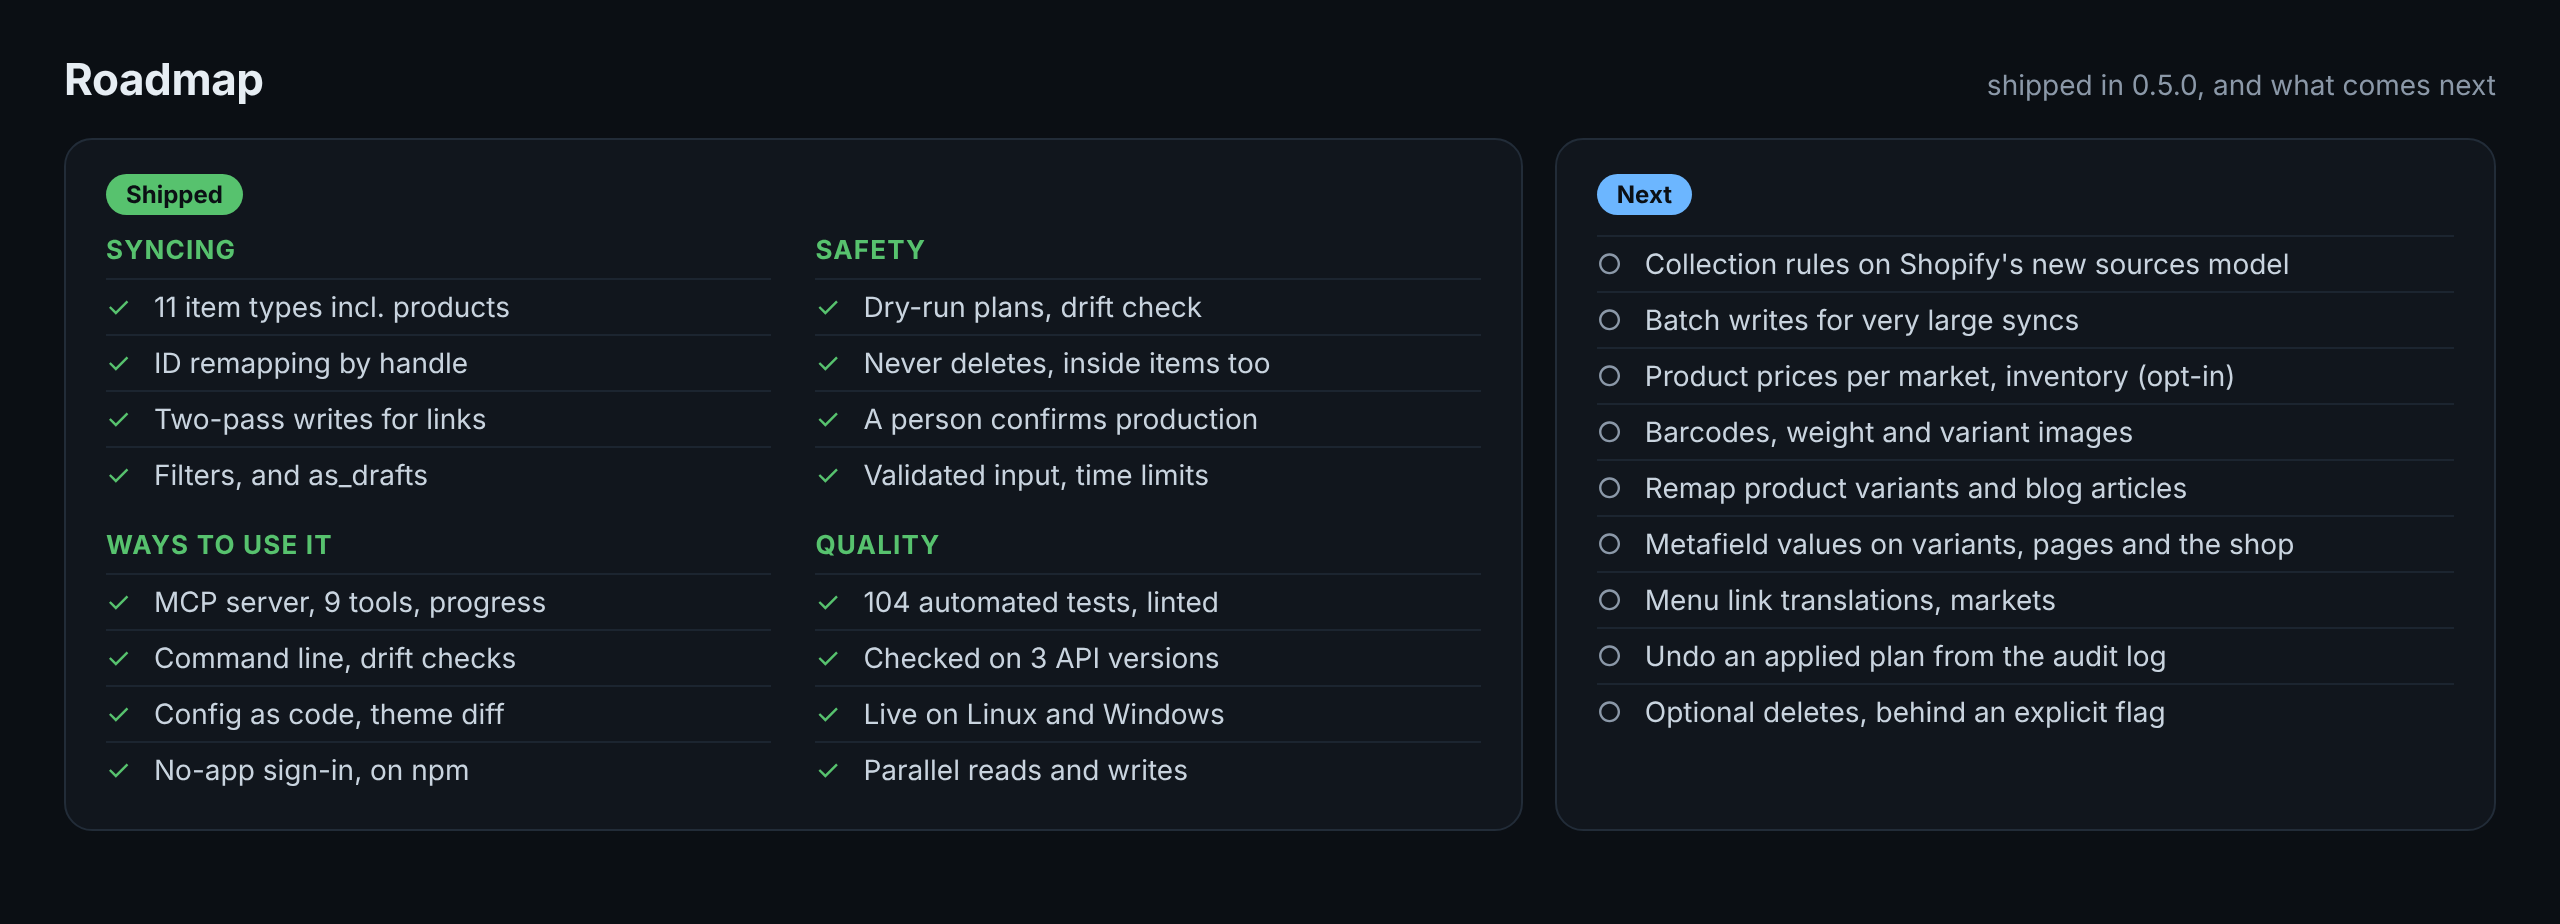
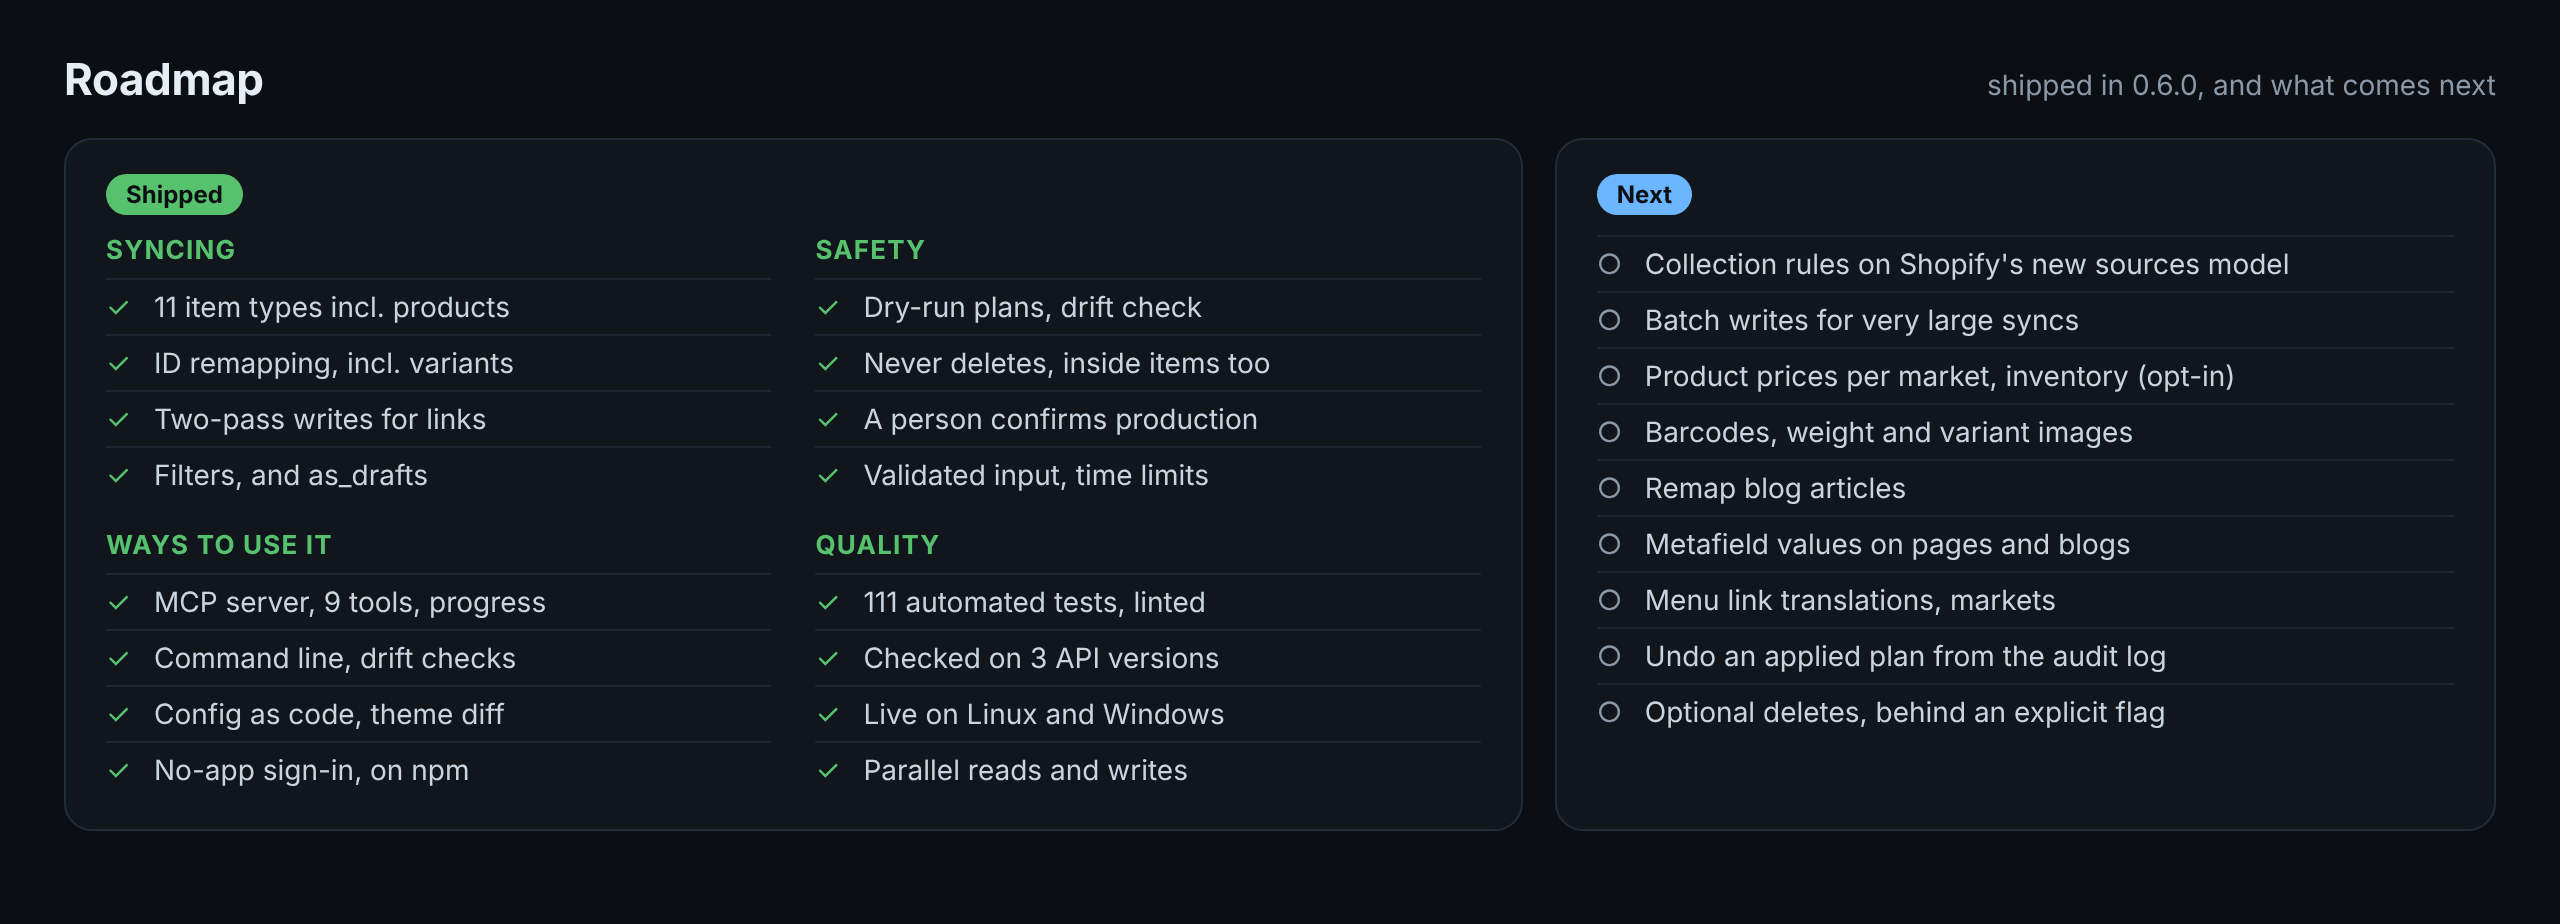
README and roadmap: 0.6.0 numbers, variant and shop metafields, permissions note

diff --git a/README.md b/README.md
@@ -190,11 +190,13 @@ An existing Admin API access token (`shpat_...`) from a custom app that was crea
 | collections | `read_products` | `write_products` |
 | products | `read_products` | `write_products` (plus `read_files`/`write_files` for their images) |
 | shop policies | `read_legal_policies` | `write_legal_policies` |
-| metafield values | `read_products` | `write_products` |
+| metafield values (products, collections, variants, shop) | `read_products` | `write_products` |
 | translations | `read_translations`, `read_locales` | `write_translations` |
 | files | `read_files` | `write_files` (to upload missing files) |
 | theme diff | `read_themes` | none, never writes |
 | ID remapping | `read_products`, `read_content` | none |
+
+Metafield definitions of some owner types (customers, orders, draft orders, companies, locations, markets) need that owner's read scope too, such as `read_customers`. The Shopify CLI sign-in doesn't ask for those, since they open up customer and order data. When a store won't show an owner type, the diff carries on: that owner type is listed as "not compared", on both stores, with the scope Shopify asked for.
 
 Everything at once (the set used for the live tests), ready to paste:
 
@@ -469,7 +471,7 @@ Two references followed from the source store to the target, as the sample sync 
 ## Tested on real stores
 
 <p align="center">
-  <img src="docs/images/tested.png" alt="104 automated tests, 56 GraphQL operations validated, 11 item types written live, 2 sign-in methods used live" width="100%">
+  <img src="docs/images/tested.png" alt="111 automated tests, 61 GraphQL operations validated, 11 item types written live, 2 sign-in methods used live" width="100%">
 </p>
 
 <details>
@@ -541,7 +543,7 @@ Behaviours of the live API found this way are covered by tests: `nodes` returns 
 - [x] Published on npm, runs with `npx`
 
 *Quality*
-- [x] 104 automated tests against an in-memory Shopify, plus MCP protocol tests
+- [x] 111 automated tests against an in-memory Shopify, plus MCP protocol tests
 - [x] Every GraphQL operation validated against Shopify's schema for 2026-04, 2026-10 and 2027-01
 - [x] Tested live between two stores on Linux and Windows, Shopify CLI 4.9 and 5
 - [x] Parallel reads and writes with throttle-aware retries; clear errors for missing installs, expired sign-ins and auto-managed policies
